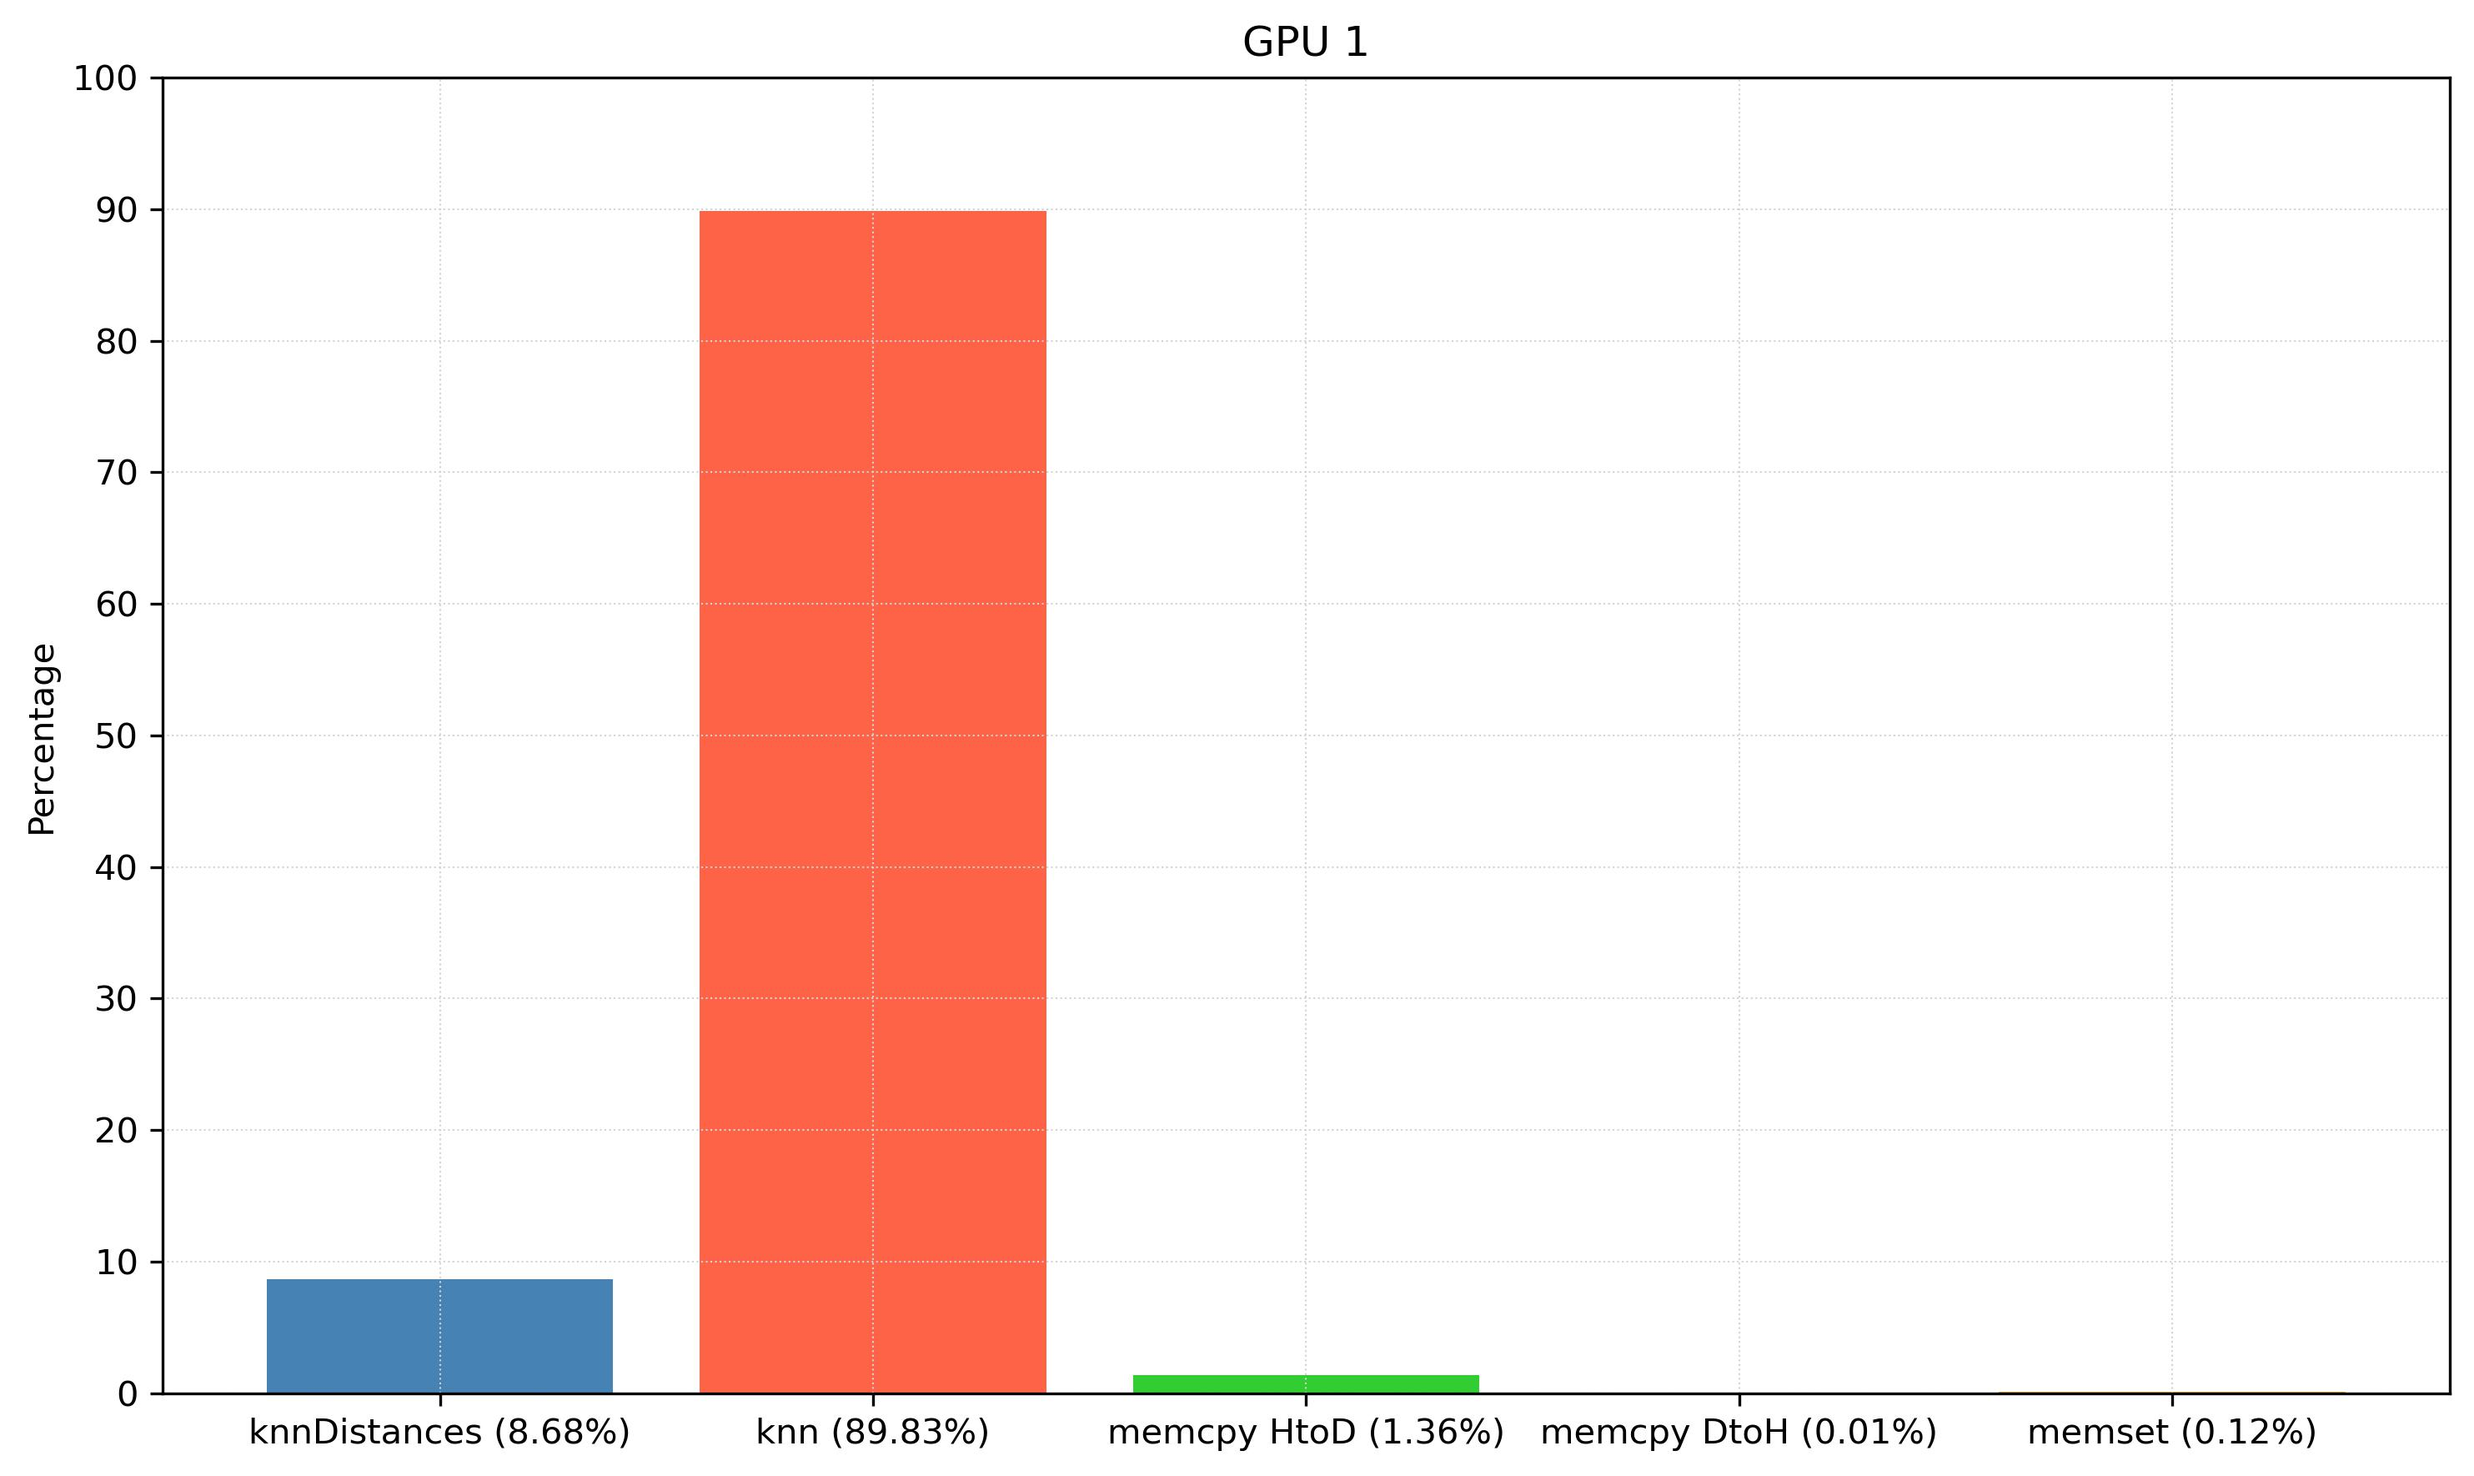
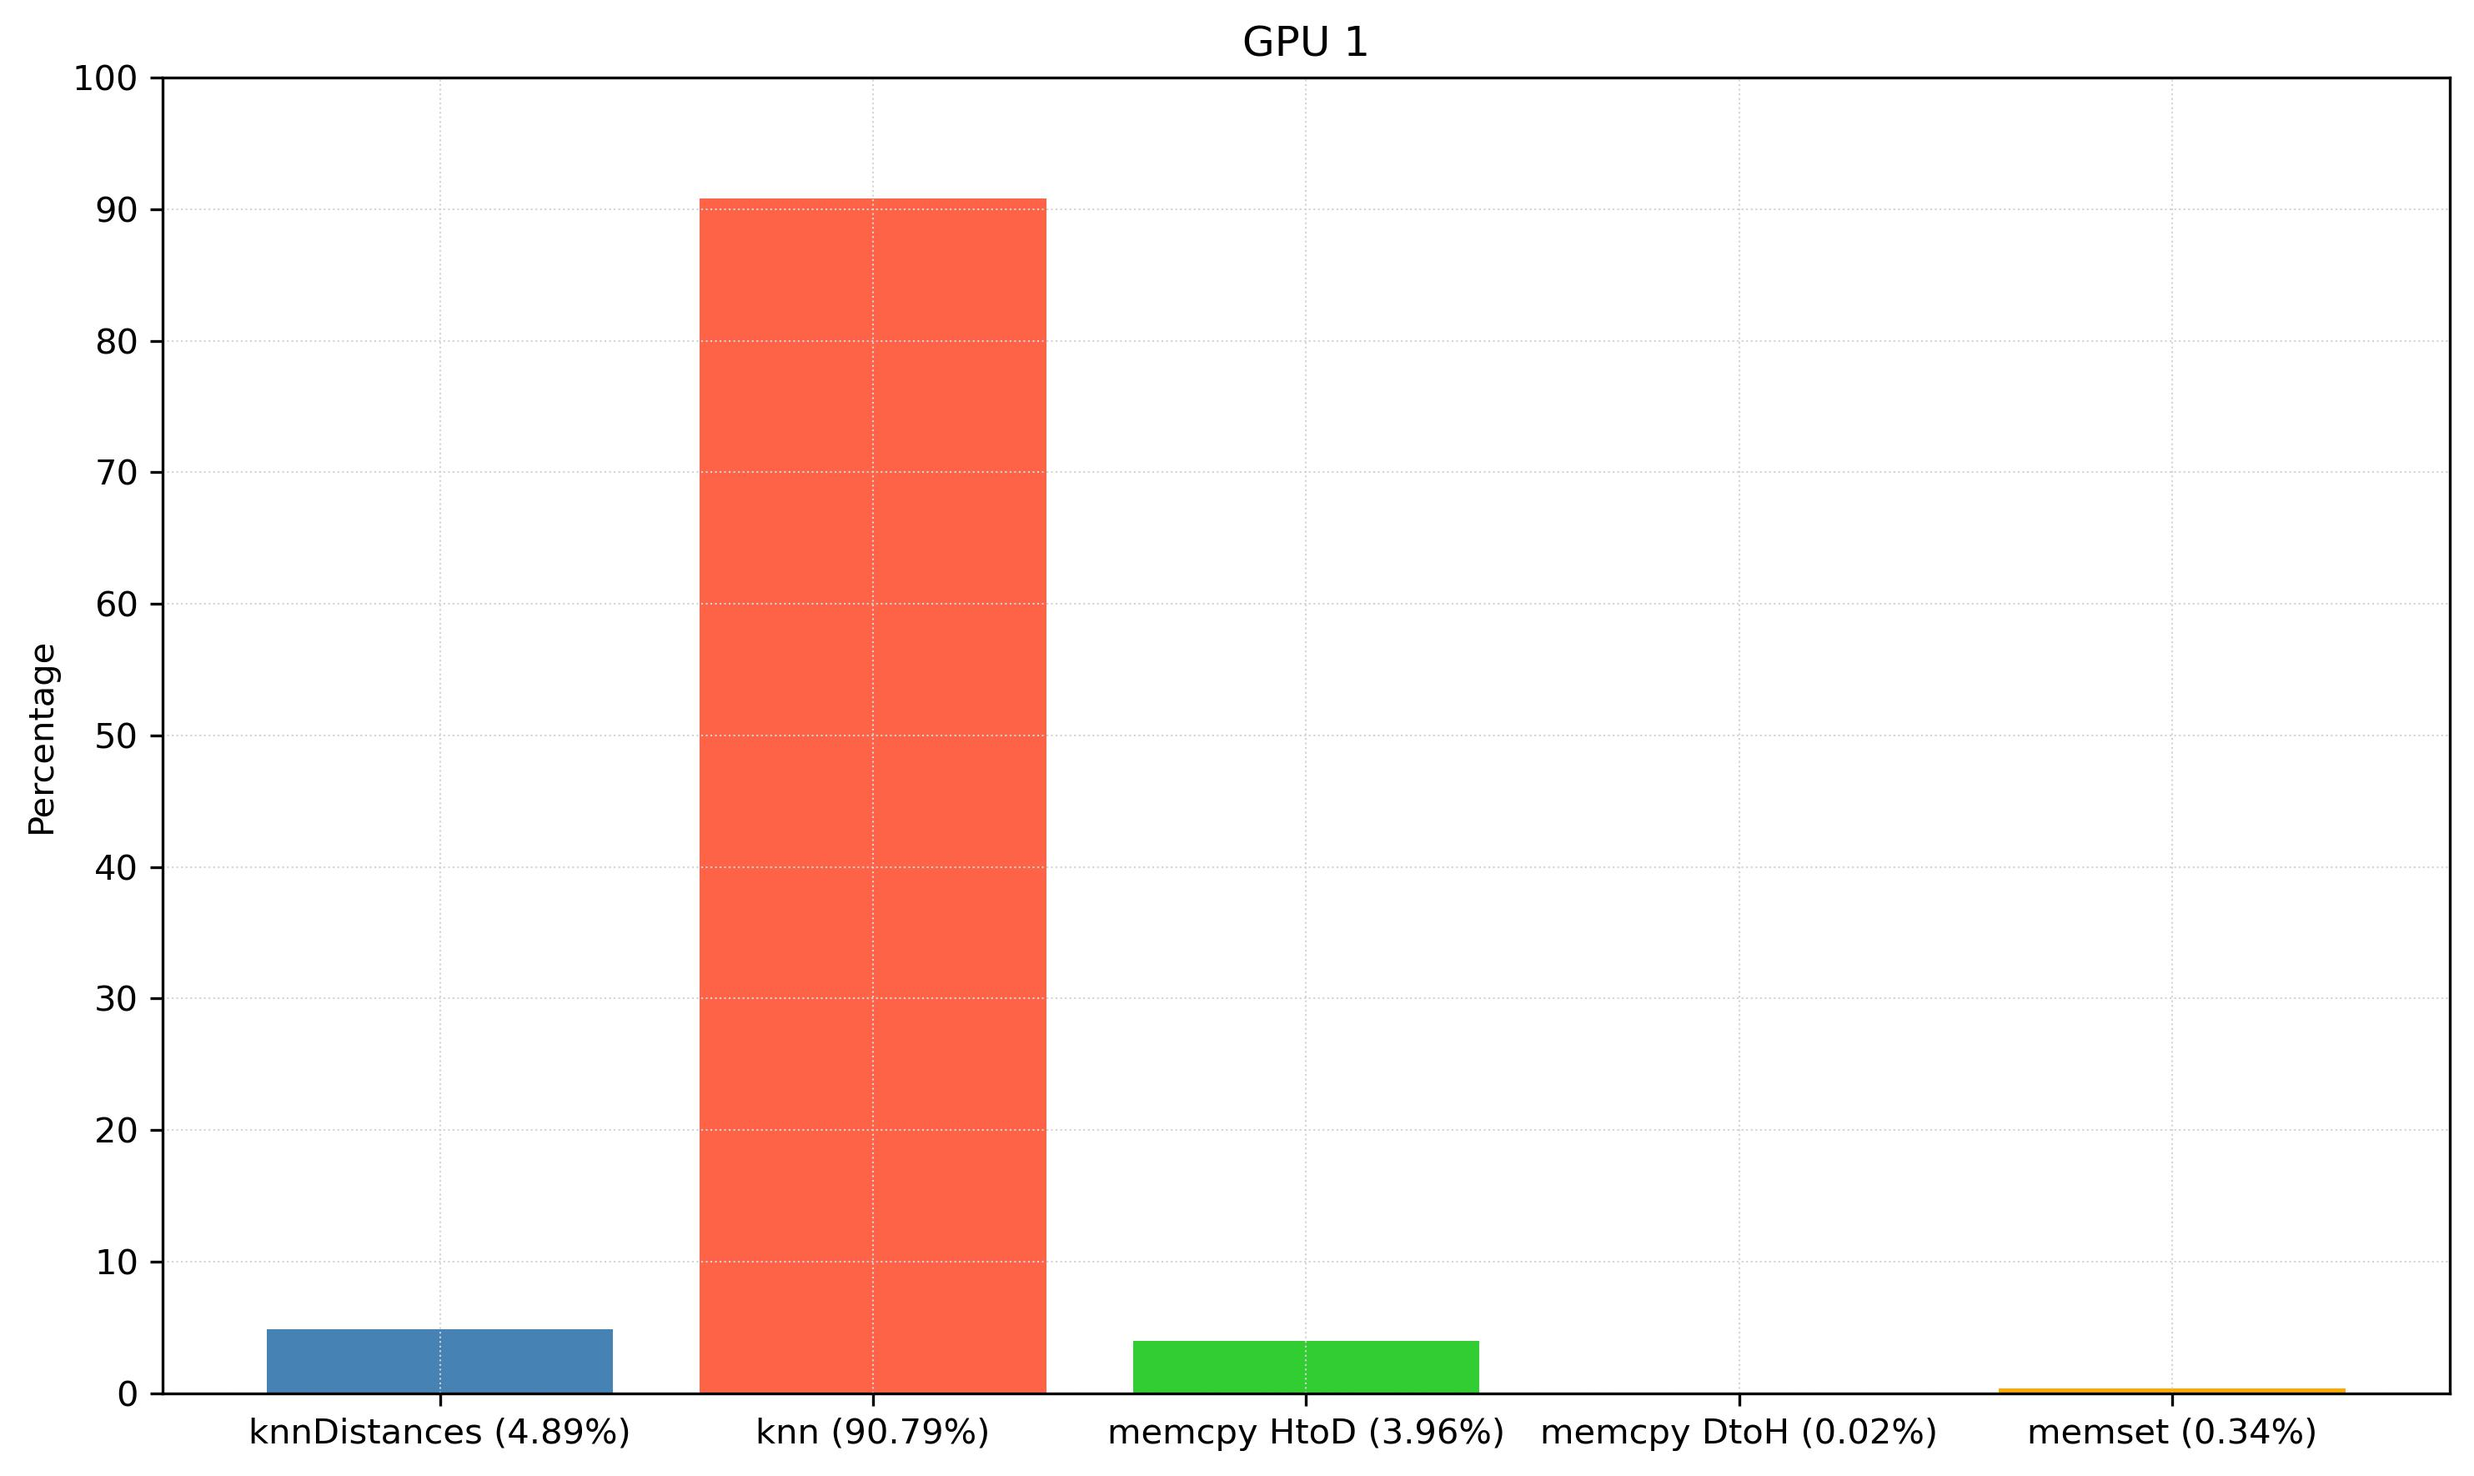
plots

diff --git a/plot_script/histogram_diabetes.py b/plot_script/histogram_diabetes.py
@@ -1,14 +1,14 @@
 import pandas as pd
 import matplotlib.pyplot as plt
 
-# Sample data 
+# Data from: /knn_cuda/kevin_results/nvprof_outputs/single_iteration_profiling/nvprof_iris_1_iter.txt
 # Format: (GPU, Kernel/API call, %Time)
 data = [
-    (1, 'knnDistances (8.68%)', 8.68),
-    (1, 'knn (89.83%)', 89.83),
-    (1, 'memcpy HtoD (1.36%)', 1.36),
-    (1, 'memcpy DtoH (0.01%)', 0.01),
-    (1, 'memset (0.12%)', 0.12),
+    (1, 'knnDistances (4.89%)', 4.89),
+    (1, 'knn (90.79%)', 90.79),
+    (1, 'memcpy HtoD (3.96%)', 3.96),
+    (1, 'memcpy DtoH (0.02%)', 0.02),
+    (1, 'memset (0.34%)', 0.34),
 ]
 
 # Convert data to a DataFrame
@@ -22,11 +22,11 @@ df['Percentage'] = df.groupby('GPU')['Time'].apply(lambda x: (x / x.sum()) * 100
 
 # Define colors for each operation
 color_map = {
-    'knnDistances (8.68%)': '#4682B4',          # Steel Blue
-    'knn (89.83%)': '#FF6347',                  # Tomato
-    'memcpy HtoD (1.36%)': '#32CD32',           # Lime Green
-    'memcpy DtoH (0.01%)': '#4169E1',           # Royal Blue
-    'memset (0.12%)': '#FFAA00',                # Orange
+    'knnDistances (4.89%)': '#4682B4',          # Steel Blue
+    'knn (90.79%)': '#FF6347',                  # Tomato
+    'memcpy HtoD (3.96%)': '#32CD32',           # Lime Green
+    'memcpy DtoH (0.02%)': '#4169E1',           # Royal Blue
+    'memset (0.34%)': '#FFAA00',                # Orange
 }
 
 # Plot histograms

diff --git a/plot_script/histogram_iris.py b/plot_script/histogram_iris.py
@@ -1,14 +1,14 @@
 import pandas as pd
 import matplotlib.pyplot as plt
 
-# Sample data 
+# Data from: /knn_cuda/kevin_results/nvprof_outputs/single_iteration_profiling/nvprof_iris_1_iter.txt
 # Format: (GPU, Kernel/API call, %Time)
 data = [
-    (1, 'knnDistances (1.96%)', 1.96),
-    (1, 'knn (97.37%)', 97.37),
-    (1, 'memcpy HtoD (0.30%)', 0.30),
-    (1, 'memcpy DtoH (0.08%)', 0.08),
-    (1, 'memset (0.29%)', 0.29),
+    (1, 'knnDistances (2.05%)', 2.05),
+    (1, 'knn (95.21%)', 95.21),
+    (1, 'memcpy HtoD (1.21%)', 1.21),
+    (1, 'memcpy DtoH (0.33%)', 0.33),
+    (1, 'memset (1.19%)', 1.19),
 ]
 
 # Convert data to a DataFrame
@@ -22,11 +22,11 @@ df['Percentage'] = df.groupby('GPU')['Time'].apply(lambda x: (x / x.sum()) * 100
 
 # Define colors for each operation
 color_map = {
-    'knnDistances (1.96%)': '#4682B4',      # Steel Blue
-    'knn (97.37%)': '#FF6347',              # Tomato
-    'memcpy HtoD (0.30%)': '#32CD32',       # Lime Green
-    'memcpy DtoH (0.08%)': '#4169E1',       # Royal Blue
-    'memset (0.29%)': '#FFAA00',            # Orange
+    'knnDistances (2.05%)': '#4682B4',      # Steel Blue
+    'knn (95.21%)': '#FF6347',              # Tomato
+    'memcpy HtoD (1.21%)': '#32CD32',       # Lime Green
+    'memcpy DtoH (0.33%)': '#4169E1',       # Royal Blue
+    'memset (1.19%)': '#FFAA00',            # Orange
 }
 
 # Plot histograms
